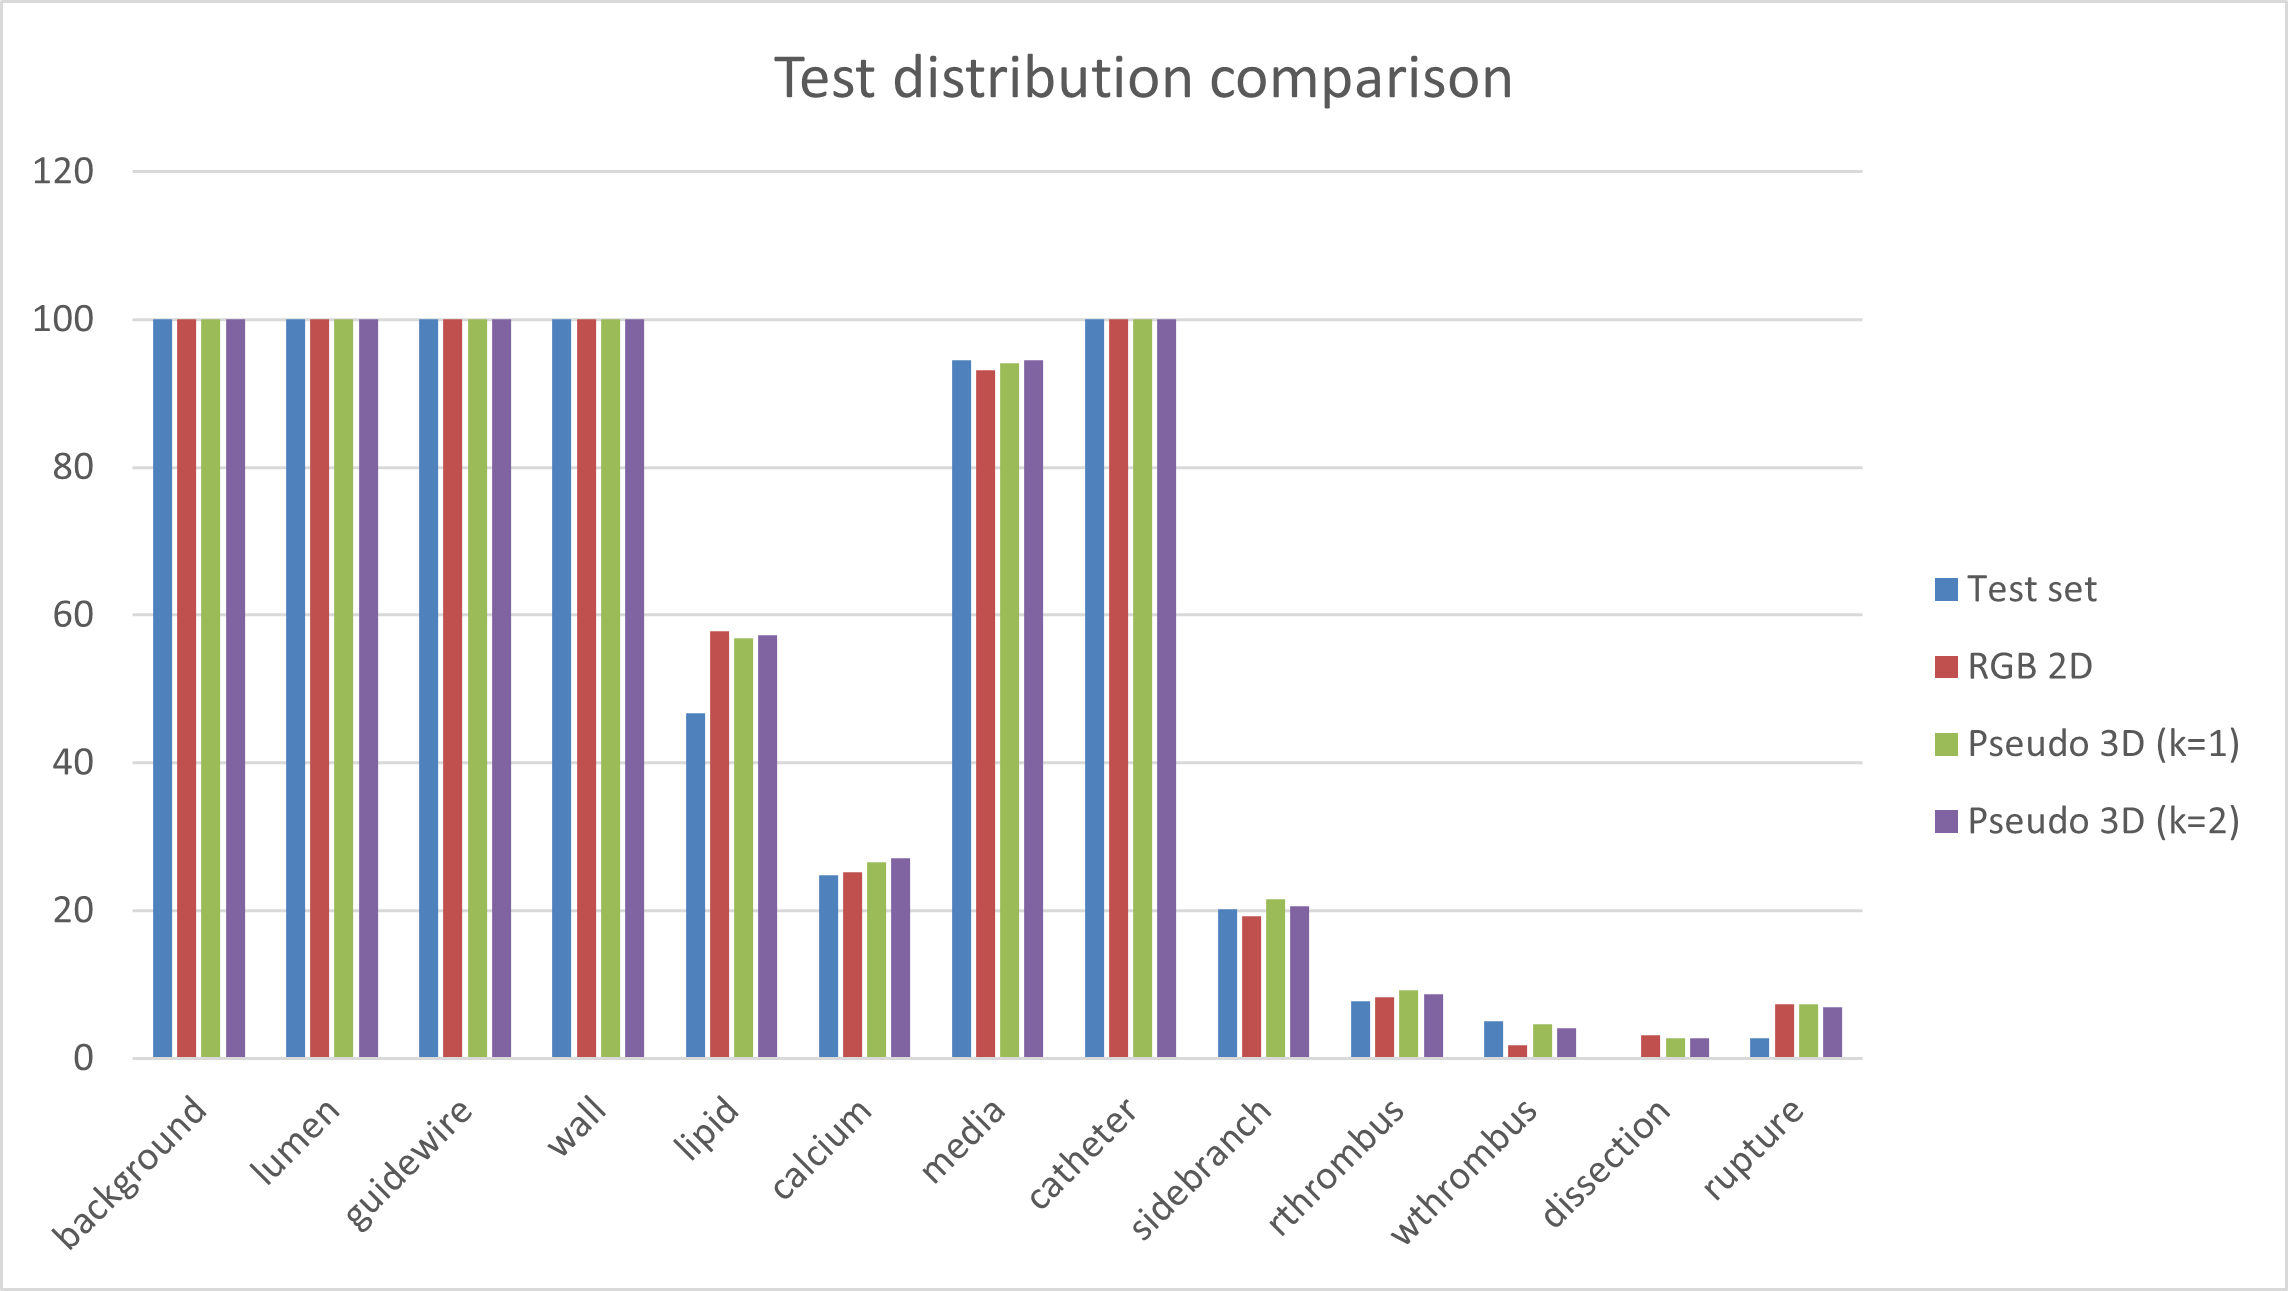
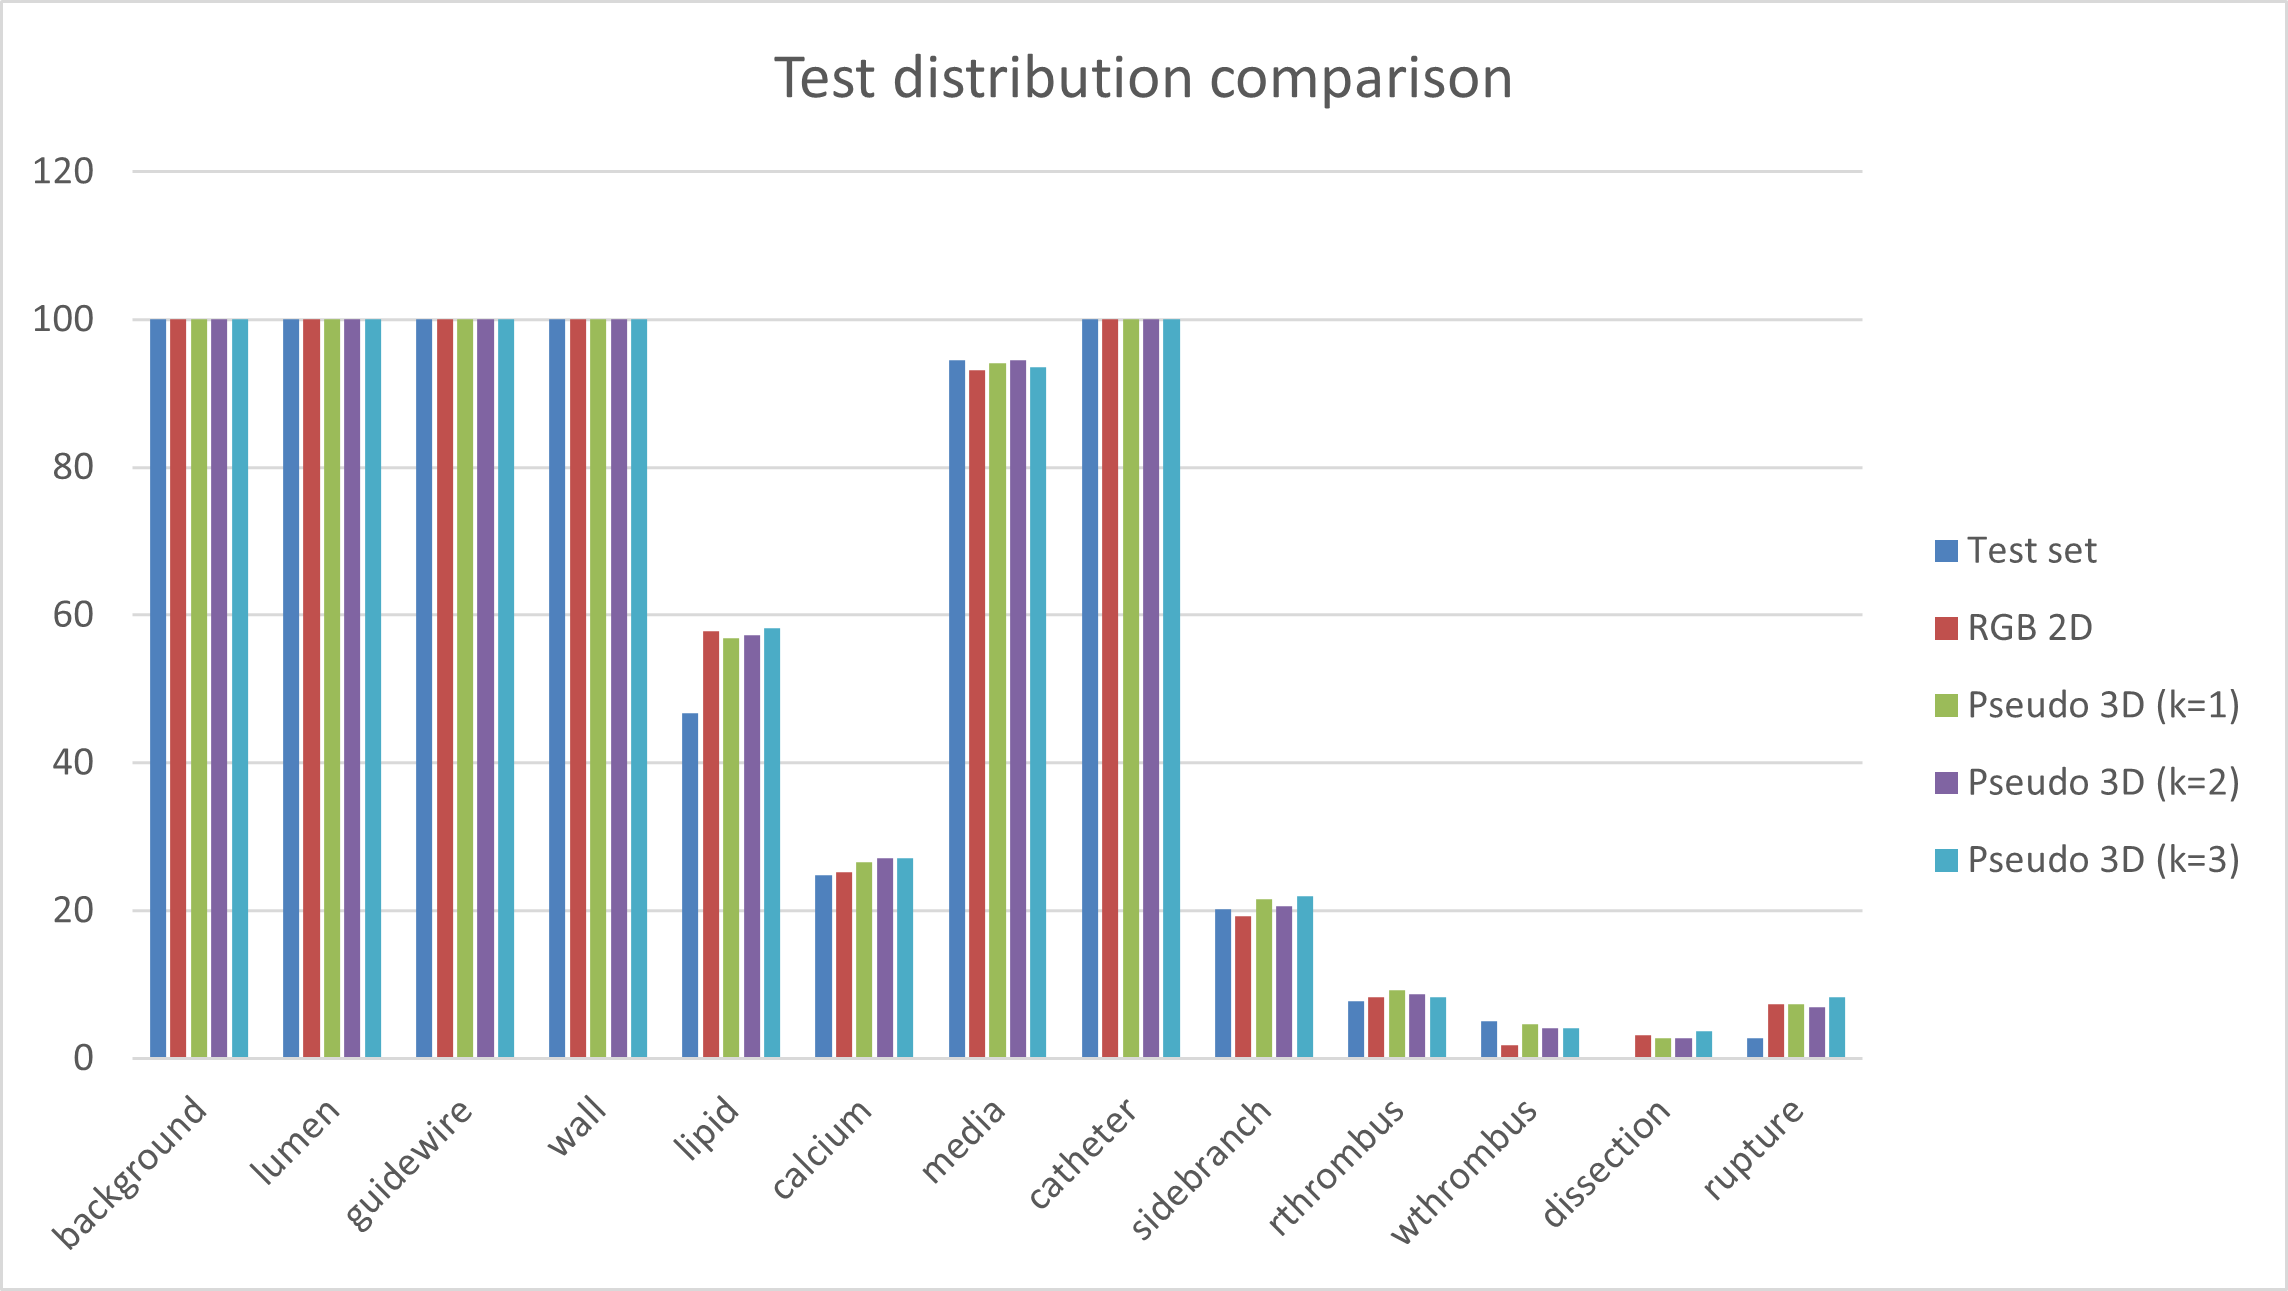
k=3 results update

Changed region(s): [[0.0621, 0.2479, 0.8068, 0.8366], [0.8378, 0.4028, 0.993, 0.6816]]

diff --git a/README.md b/README.md
@@ -173,6 +173,19 @@ We report the DICE (both per frame and pullback), positive predictive value (PPV
 | White thrombus | 0.154 | 0.165 | 0.556 | 0.971 | 0.454 | 0.981 | 0.476 
 | Dissection | 0 | 0 | 0 | 1 | NaN | 0.972 | 0
 | Plaque rupture | 0.112 | 0.06 | 0.333 | 0.995 | 0.833 | 0.953 | 0.455
+| **k = 3** |
+| Lumen  | 0.985 | 0.987 | 1 | NaN | 1 | NaN | NaN
+| Guidewire  | 0.941 | 0.943 | 1 | NaN | 1 | NaN | NaN
+| Wall | 0.884 | 0.892 | 1 | NaN | 1 | NaN | NaN
+| Lipid | 0.586 | 0.692 | 0.803 | 1 | 1 | 0.784 | 0.773
+| Calcium | 0.492 | 0.593 | 0.779 | 0.949 | 0.852 | 0.921 | 0.749
+| Media | 0.771 | 0.813 | 0.99 | 0.714 | 0.981 | 0.833 | 0.754
+| Catheter | 0.99 | 0.99 | 1 | NaN | 1 | NaN | NaN
+| Sidebranch | 0.506 | 0.581 | 0.771 | 0.959 | 0.841 | 0.937 | 0.752
+| Red thrombus | 0.609 | 0.352 | 0.889 | 0.995 | 0.941 | 0.99 | 0.907
+| White thrombus | 0.176 | 0.2 | 0.667 | 0.976 | 0.545 | 0.985 | 0.581 
+| Dissection | 0 | 0 | 0 | 1 | NaN | 0.963 | 0
+| Plaque rupture | 0.057 | 0.025 | 0.278 | 0.995 | 0.833 | 0.939 | 0.391
 
 
 <!-- ### Results on test set (pullback-level)
@@ -202,6 +215,7 @@ Inspired by the approaches in the study by [Lee et al. (2022)](https://www.natur
 | 2D | 0.711 | 0.796
 | k = 1 | 0.725 | 0.799
 | k = 2 | 0.718 | 0.797
+| k = 3 | 0.705 | 0.795
 
 
 
@@ -214,6 +228,7 @@ Model | Calcium arc frame-level | Calcium arc pullback-level
 | 2D | 0.61 | 0.678
 | k = 1 | 0.59 | 0.667
 | k = 2 | 0.596 | 0.672
+| k = 3 | 0.592 | 0.669
 
 
 ### Post processing results
@@ -227,6 +242,7 @@ For the post-processing results, we report the Bland-Altman analysis and intra-c
 | 2D | 24 | 0 | 4.83 ± 74.42 | 25.36 ± 55.36 | 0.749 | 0.785
 | k = 1 | 22 | 0 | 2.67 ± 77.21 | 25.46 ± 57.15 | 0.727 | 0.78
 | k = 2 | 23 | 0 | -0.97 ± 71.73 | 25.1 ± 54.55 | 0.757 | 0.745
+| k = 3 | 25 | 0 | 0.3 ± 70.48 | 25.58 ± 55.63 | 0.768 | 0.736
 
 
 #### Calcium measurements
@@ -237,6 +253,7 @@ For the post-processing results, we report the Bland-Altman analysis and intra-c
 | 2D | 9 | 10 | 1.09 ± 68.95 | -18.11 ± 21.97 | -47.64 ± 209.13 | 0.817 | 0.807 | 0.65
 | k = 1 | 11 | 9 | 15.58 ± 45.12 | -17.82 ± 20.82 | -42.6 ± 196.03 | 0.924 | 0.833 | 0.696
 | k = 2 | 12 | 7 | 29.21 ± 91.42 | -19.19 ± 22.82 | -50.94 ± 223.97 | 0.735 | 0.798 | 0.631
+| k = 3 | 11 | 8 | 21.6 ± 80.48 | -16.93 ± 20 | -38.43 ± 225.05 | 0.791 | 0.849 | 0.633
 
 
 ### Uncertainty estimation results
@@ -248,7 +265,7 @@ The total Expected Calibration Error (ECE) with the reliability curves were obta
 | 2D | 0.0189 | 0.713/-/0.903 | 0.575/0.875/0.851
 | k = 1 | 0.0198 | 0.728/-/0.902 | 0.627/0.861/0.846
 | k = 2 | 0.0196 | 0.723/-/0.904 | 0.599/0.861/0.833
-
+| k = 3 | 0.0197 | 0.684/-/0.903 | 0.578/0.869/0.837
 
 ## TODO:
  - Train pseudo 3d (+- 1, 2, 3 frames)

diff --git a/info-files/metrics/README.md b/info-files/metrics/README.md
@@ -6,7 +6,8 @@ The file in this folder contains all the generated metrics. Below, an explanatio
 
 This sheet contain the summary of every label in the study, except for the arc and TCFA metrics. For every model, you will find the average metrics for DICE per frame and per pullback, PPV, NPV, senstivity, specificity andf Cohen's Kappa, for every label. Moreover, a plot comparing the DICEs per frame can also be found, as can be seen below.
 
-(Poner images cuando este)
+![Figure 1. DICEs per frame for every model](/assets/dices_per_frame.png)
+
 
 ### TCFAs
 
@@ -16,7 +17,11 @@ In this sheet, you will find the PPV, NPV, specificity, sensitivity and Kappa fo
 
 Two sheets contain the results for the lipid arc and the calcium arc DICEs respectively. Each sheet shows, on the top, an overview table with the DICEs for a type of arc (both per frame and per pullback), with a bar plot to the right to better visualize each model results. These plots can be visualized below. 
 
-(Poner images cuando este)
+<p float="left">
+  <img src="/assets/lipid_arc_dices.png" width="500" />
+  <img src="/assets/cal_arc_dices.png" width="500" /> 
+</p>
+
 
 Finally, on bottom left, you will find a table with the DICE for every frame and every model, and to the bottom right the arc DICE for every pullback.
 

diff --git a/info-files/statistics/README.md b/info-files/statistics/README.md
@@ -10,6 +10,9 @@ This file is manually created using the measurments obtained in the [counts](/in
 
 Each sheet in this file corresponds to one of the 5 measurements we are analyzing, plus an extra sheet contains different plots to compare each model. Below, you can find a plot example for the ICC.
 
-(Poner image cuando este)
+<p float="left">
+  <img src="/assets/icc_lipid.png" width="500" />
+  <img src="/assets/icc_cal.png" width="500" /> 
+</p>
 
 For a given sheet, each row corresponds to one model, containing the nº of FP and FN, mean difference, standard deviation, correlation, ICC(2,1), nº of outliers and a list containing all the specific frames that are outliers. These values are the one used then for the plots.

diff --git a/info-files/uncertainty/README.md b/info-files/uncertainty/README.md
@@ -27,6 +27,7 @@ The reliability curves, with the total ECE in the test set, can be found below. 
   <img src="/assets/ece_conf_model_2d.png" width="500" />
   <img src="/assets/ece_conf_pseudo3d_1.png" width="500" /> 
   <img src="/assets/ece_conf_pseudo3d_2.png" width="500" />
+  <img src="/assets/ece_conf_pseudo3d_3.png" width="500" />
 </p>
 
 ## Features file
